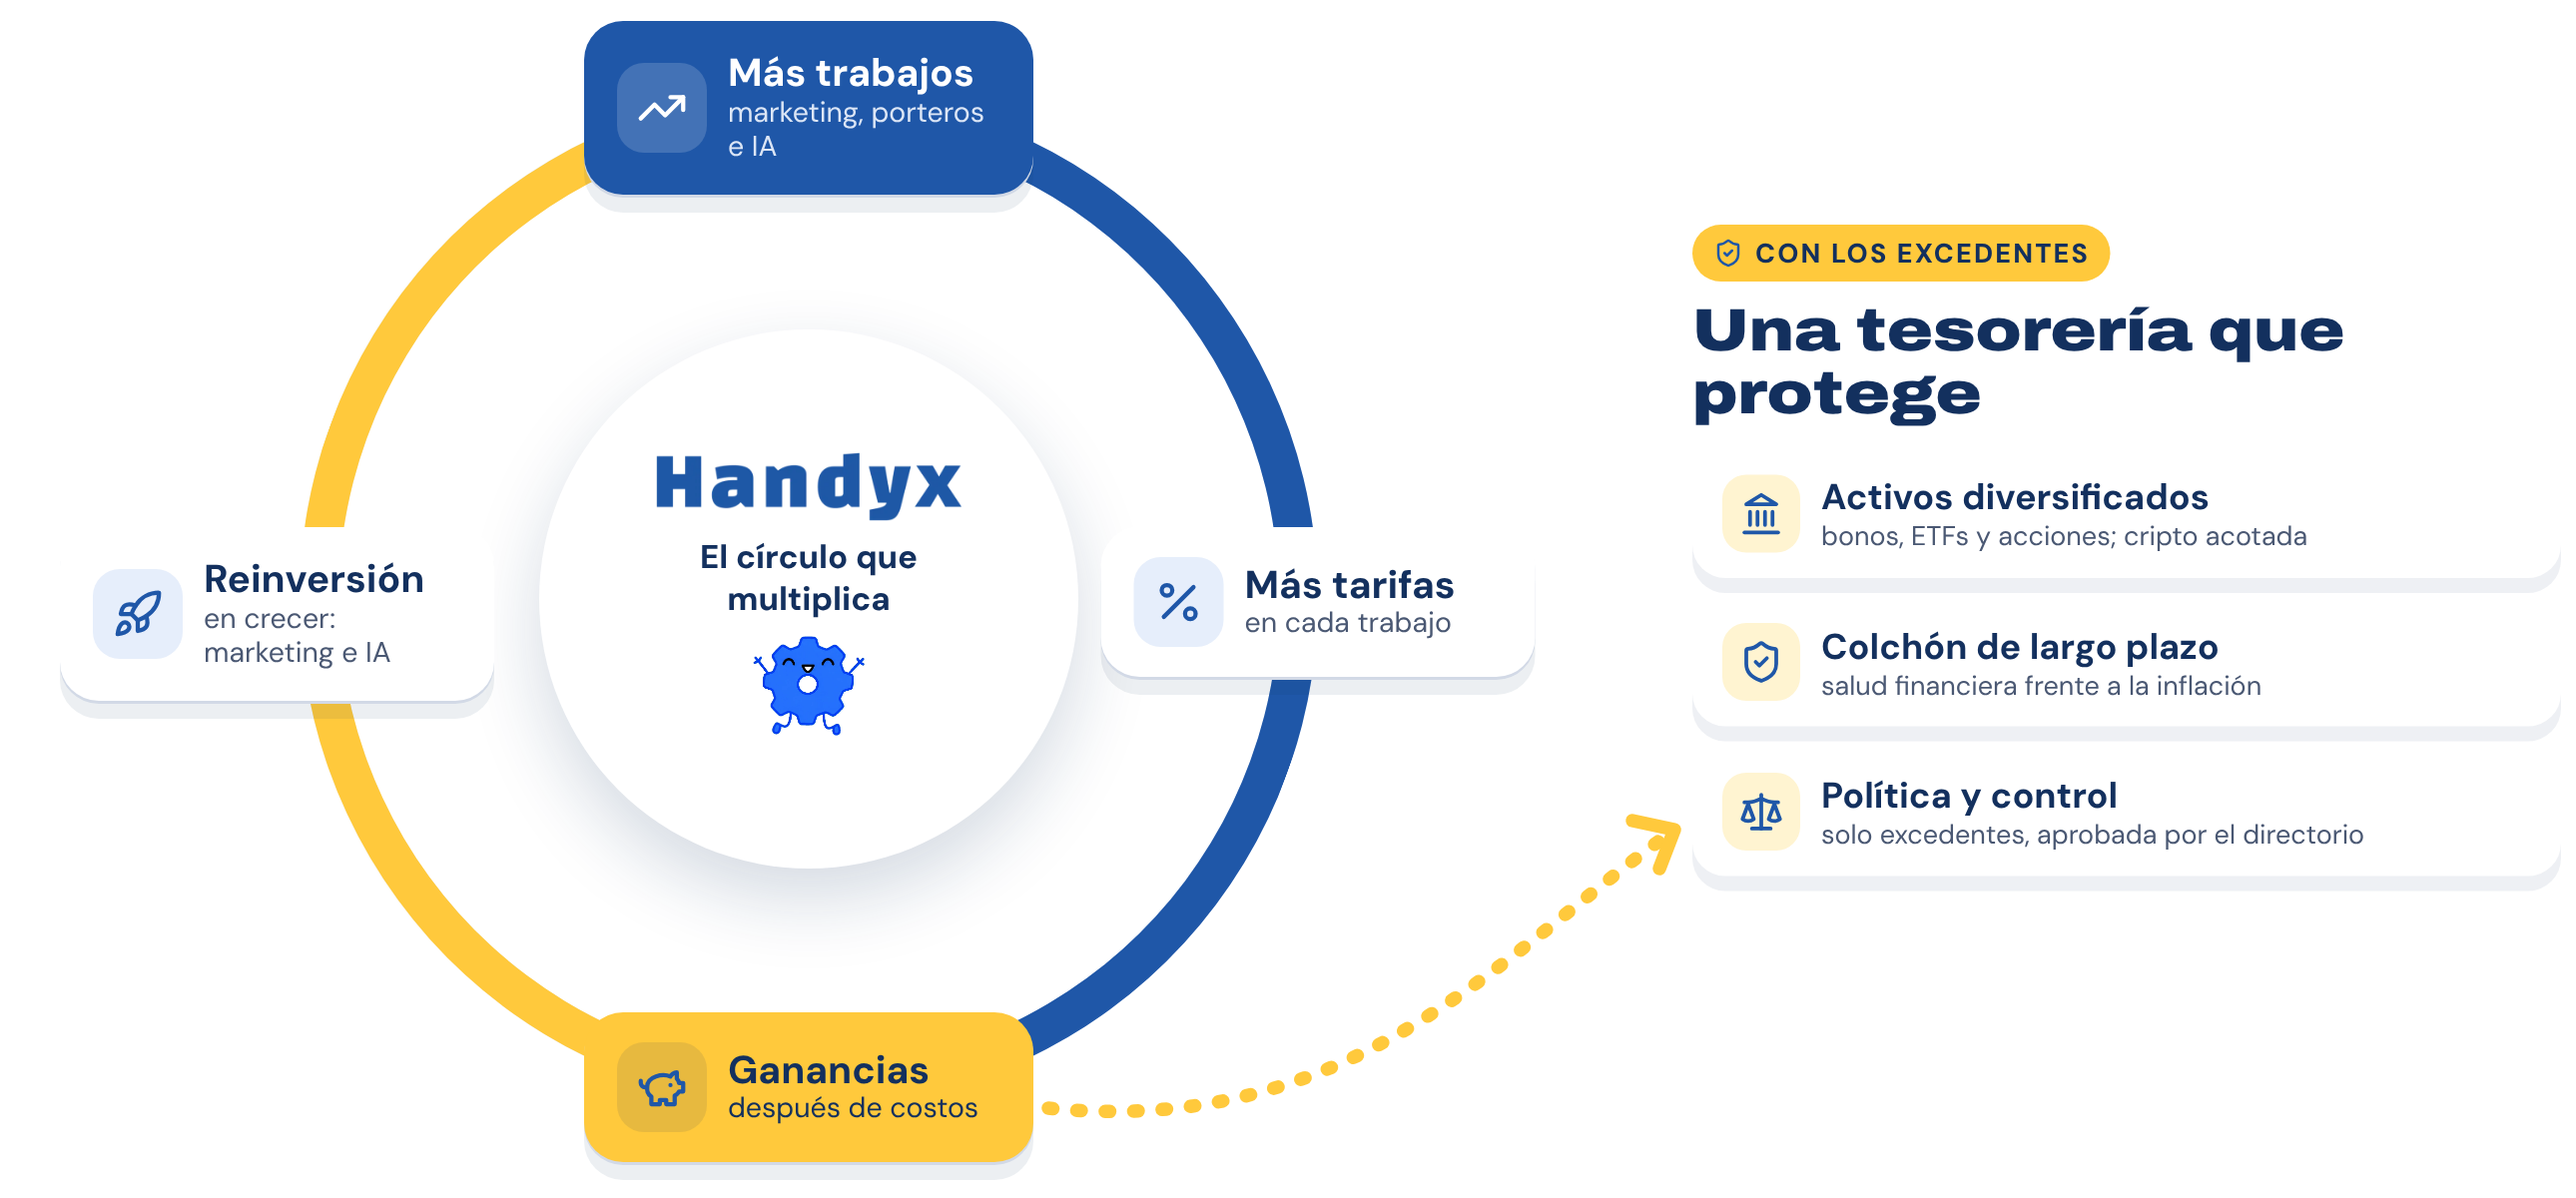
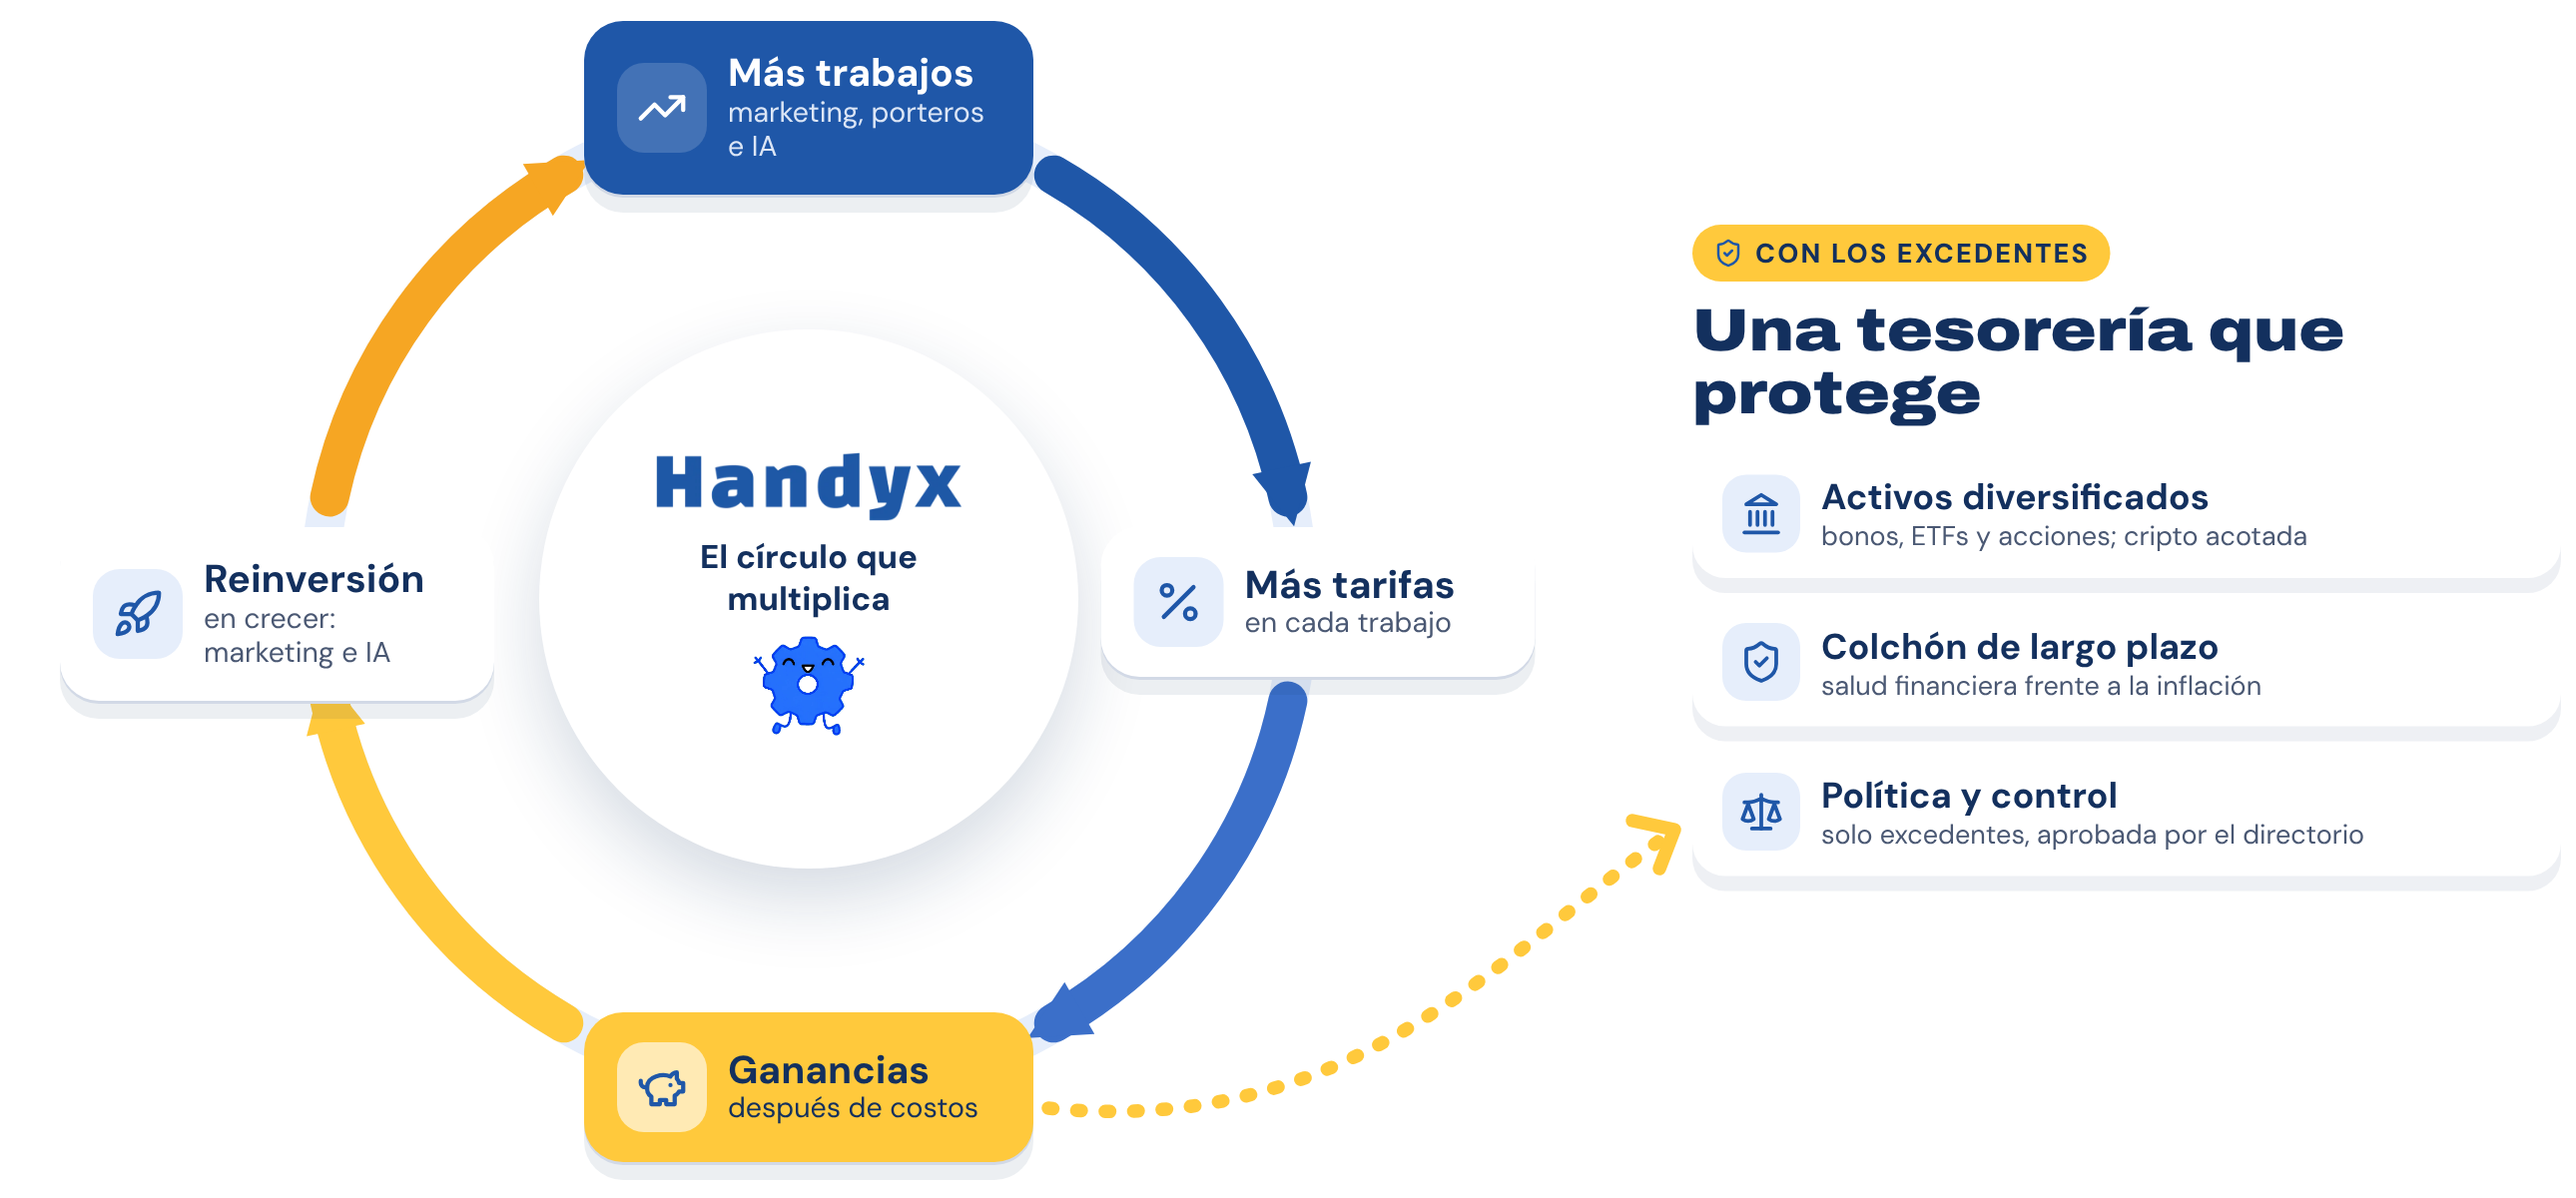
Pitch ATICMA: mejores colores en el círculo que multiplica y el camino a la IPO
- Círculo: anillo de cuatro arcos con flechas que muestran el ciclo (trabajos → tarifas →
  ganancias → reinversión); cajas de íconos claras en Ganancias y en la tesorería.
- IPO: progresión clara de la escalera (blanco con borde → celeste → azul → azul de marca)
  y la IPO en noche con oro, sin el halo ni la base apagados.

Claude-Session: https://claude.ai/code/session_01QGDMaQ7dcXpVtFC21gPk7N

diff --git a/docs/handoff.md b/docs/handoff.md
@@ -206,4 +206,7 @@ el workflow compila con `SERVIDOR_CONTROL` y verifica que Render responda. Todo-
   en el respaldo y como pregunta 19. La voz real con ElevenLabs queda lista para sumar (`scripts/video-pitch/handia-voz/`): falta la clave
   (`ELEVENLABS_API_KEY` en las variables del entorno, nunca en el repo) y permitir `api.elevenlabs.io` en el acceso de red del entorno.
   30 láminas de respaldo y 20 preguntas; machete de 26.
+- 05/11 (8) · Colores de «El círculo que multiplica» (anillo de cuatro arcos con flechas: el ciclo trabajos → tarifas → ganancias →
+  reinversión; íconos en cajas claras) y de «Camino a la IPO» (progresión blanco → celeste → azul → azul de marca → noche con oro para la
+  IPO). Colores planos de la marca, sin manchas de gradiente. Generador: `scripts/video-pitch/graficos-finanzas.cjs`.
 
